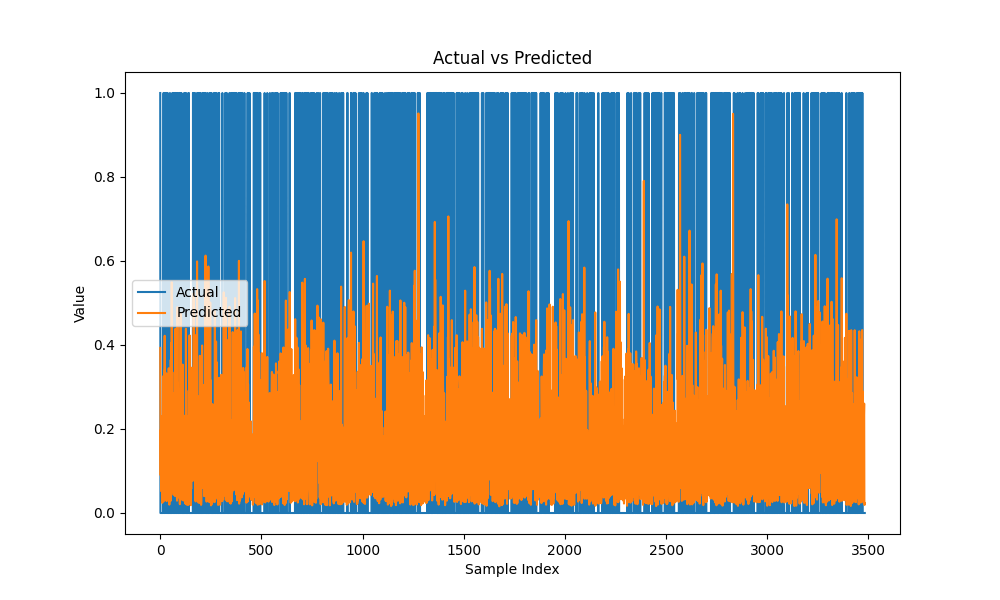
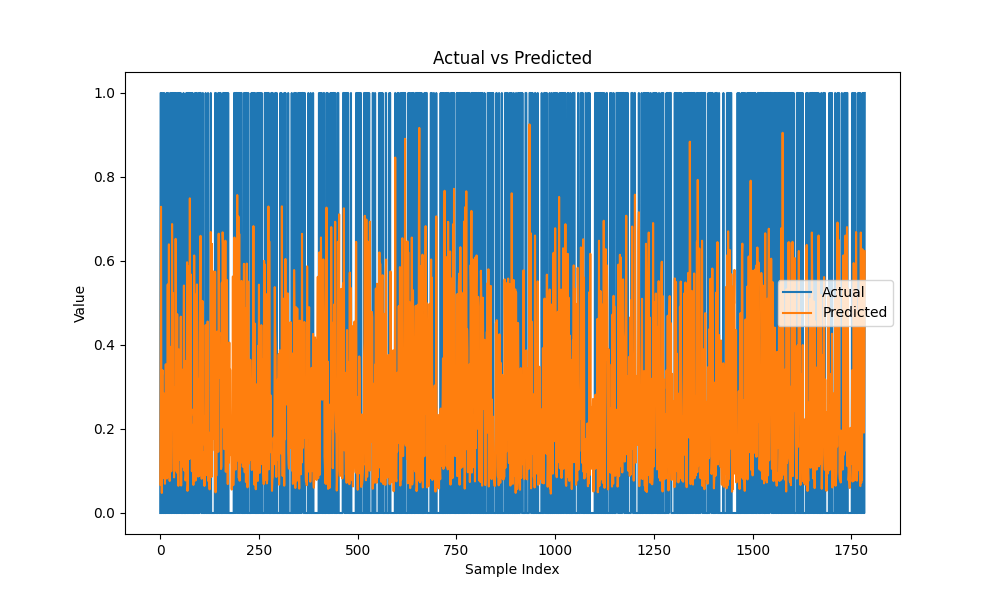
lenta

diff --git a/utils.py b/utils.py
@@ -22,29 +22,33 @@ def combined_loss(y_true, y_pred, beta=0.5):
 
 # создание датафрейм из csv
 def create_dataframe(coin, data, period):
-    # Путь к директории с CSV файлами
-    directory = f'history_csv/{coin}/{period}/{data}/'  # Укажите путь к вашей директории с CSV файлами
+
     # Создаем пустой DataFrame
     df = pd.DataFrame()
 
+
+
     try:
-        for file_name in os.listdir(directory):
-            if file_name.endswith('.csv'):
-                file_path = os.path.join(directory, file_name)
+        for item in data:
+            directory = f'history_csv/{coin}/{period}/{item}/'
+            for file_name in os.listdir(directory):
+                if file_name.endswith('.csv'):
+                    file_path = os.path.join(directory, file_name)
 
-                # Определяем количество столбцов в CSV файле, исключая последний
-                use_cols = pd.read_csv(file_path, nrows=1).columns.difference(['open_time', 'close_time', 'ignore'])
+                    # Определяем количество столбцов в CSV файле, исключая последний
+                    use_cols = pd.read_csv(file_path, nrows=1).columns.difference(['open_time', 'close_time', 'ignore'])
 
-                # Считываем данные из CSV, исключая последний столбец
-                data = pd.read_csv(file_path, usecols=use_cols)
+                    # Считываем данные из CSV, исключая последний столбец
+                    data = pd.read_csv(file_path, usecols=use_cols)
 
 
-                # Преобразуем поля с временными метками в datetime
-                #data['open_time'] = pd.to_datetime(data['open_time'], unit='ms')
-                #data['close_time'] = pd.to_datetime(data['close_time'], unit='ms')
+                    # Преобразуем поля с временными метками в datetime
+                    #data['open_time'] = pd.to_datetime(data['open_time'], unit='ms')
+                    #data['close_time'] = pd.to_datetime(data['close_time'], unit='ms')
 
-                # Добавляем считанные данные в DataFrame
-                df = pd.concat([df, data], ignore_index=True)
+                    # Добавляем считанные данные в DataFrame
+
+                    df = pd.concat([df, data], ignore_index=True)
     except Exception as e:
         print(f'error os load {e}')
     return df

diff --git a/test.py b/test.py
@@ -12,8 +12,8 @@ import joblib
 
 class goTest():
     directory = 'history_csv/test/'  # Укажите путь к вашей директории с CSV файлами
-    window_size = 4
-    predict_percent = 0.45
+    window_size = 3
+    predict_percent = 0.48
     df_scaled: None
     close_prices: None
 
@@ -34,13 +34,14 @@ class goTest():
         print("Predicted classes:", len(new_predicted_classes))
 
         unique, counts = np.unique(new_predicted_classes, return_counts=True)
-        print("Unique predicted classes and their counts:", dict(zip(unique, counts)))
 
         # Вывод предсказанных классов и соответствующих цен закрытия
         print("Predicted classes and closing prices:")
         for predicted_class, close_price in zip(new_predicted_classes.flatten(), self.close_prices):
             if predicted_class == 1:
                 print(f"Class: {predicted_class}, Close Price: {close_price}")
+
+        print("Unique predicted classes and their counts:", dict(zip(unique, counts)))
 
     def prepare_new_data(self):
         self.df['pct_change'] = self.df['close'].pct_change(periods=self.window_size)

diff --git a/main.py b/main.py
@@ -16,11 +16,11 @@ import matplotlib
 matplotlib.use('Agg')
 
 import joblib
-window_size = 4
+window_size = 3
 threshold = 0.01
 
 def goCNN():
-    df = create_dataframe(coin='TONUSDT', period='1m', data='2024-04')
+    df = create_dataframe(coin='TONUSDT', period='15m', data=['2024-04', '2024-03'])
     df['pct_change'] = df['close'].pct_change(periods=window_size)
     scaler = MinMaxScaler()
 
